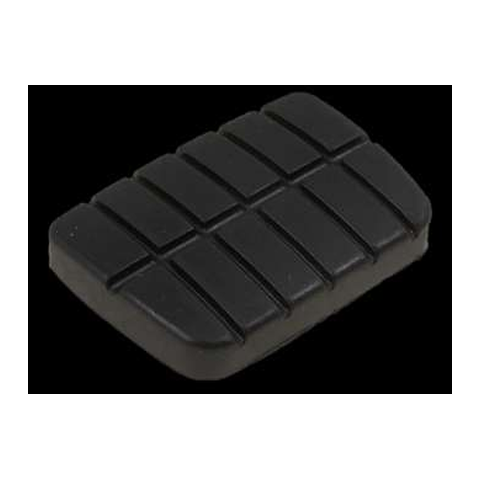
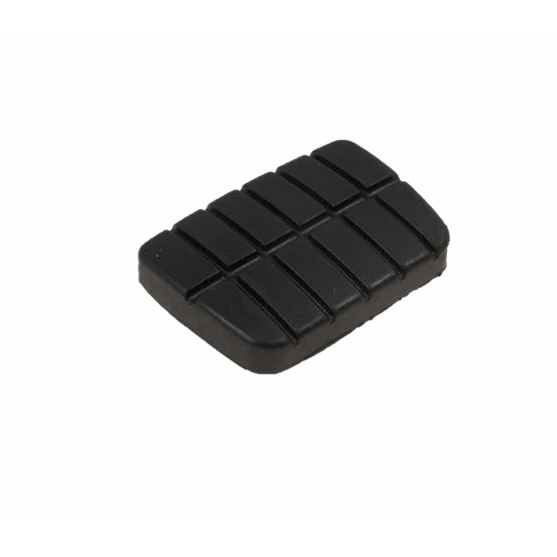
update: replace P002 P003 P008 pedal product photos
Swap in the new white-background photos so Pedales and brand-funnel views (Hyundai, Renault Twingo, Nissan) share the same product images.

diff --git a/index.html b/index.html
@@ -11,7 +11,7 @@
   <link rel="icon" type="image/png" sizes="32x32" href="assets/logo/va-favicon-v-32.png">
   <link rel="icon" type="image/png" sizes="64x64" href="assets/logo/va-favicon-v-64.png">
   <link rel="apple-touch-icon" sizes="192x192" href="assets/logo/va-icon-app-v-192.png">
-  <link rel="stylesheet" href="styles.css?v=20260914n">
+  <link rel="stylesheet" href="styles.css?v=20260914o">
 </head>
 <body>
   <header class="site-header">
@@ -193,7 +193,7 @@
     <img id="lightboxImg" alt="">
   </div>
 
-  <script src="catalogo-data.js?v=20260914n"></script>
+  <script src="catalogo-data.js?v=20260914o"></script>
   <script>
     (function () {
       var C = window.VA_CATALOG;
@@ -207,6 +207,6 @@
       }).join("");
     })();
   </script>
-  <script src="script.js?v=20260914n"></script>
+  <script src="script.js?v=20260914o"></script>
 </body>
 </html>
